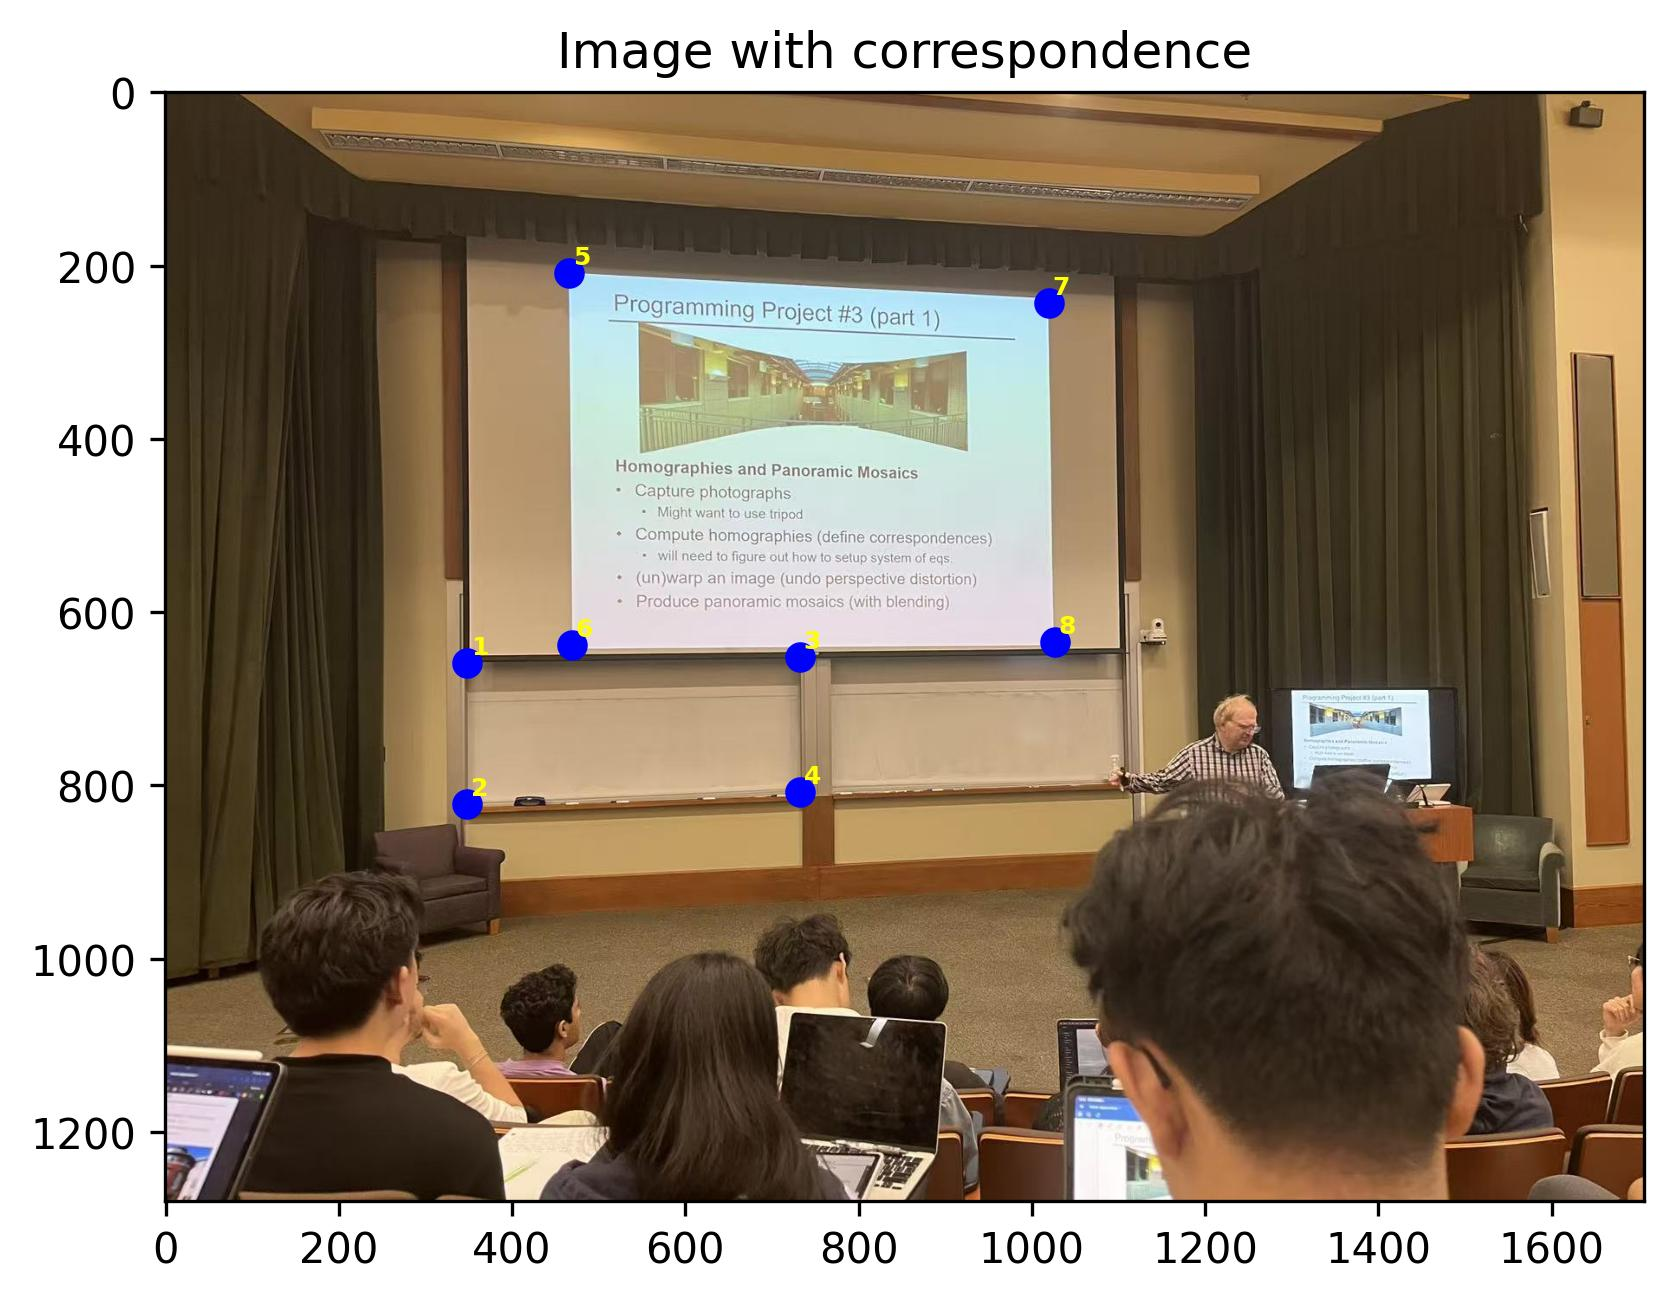
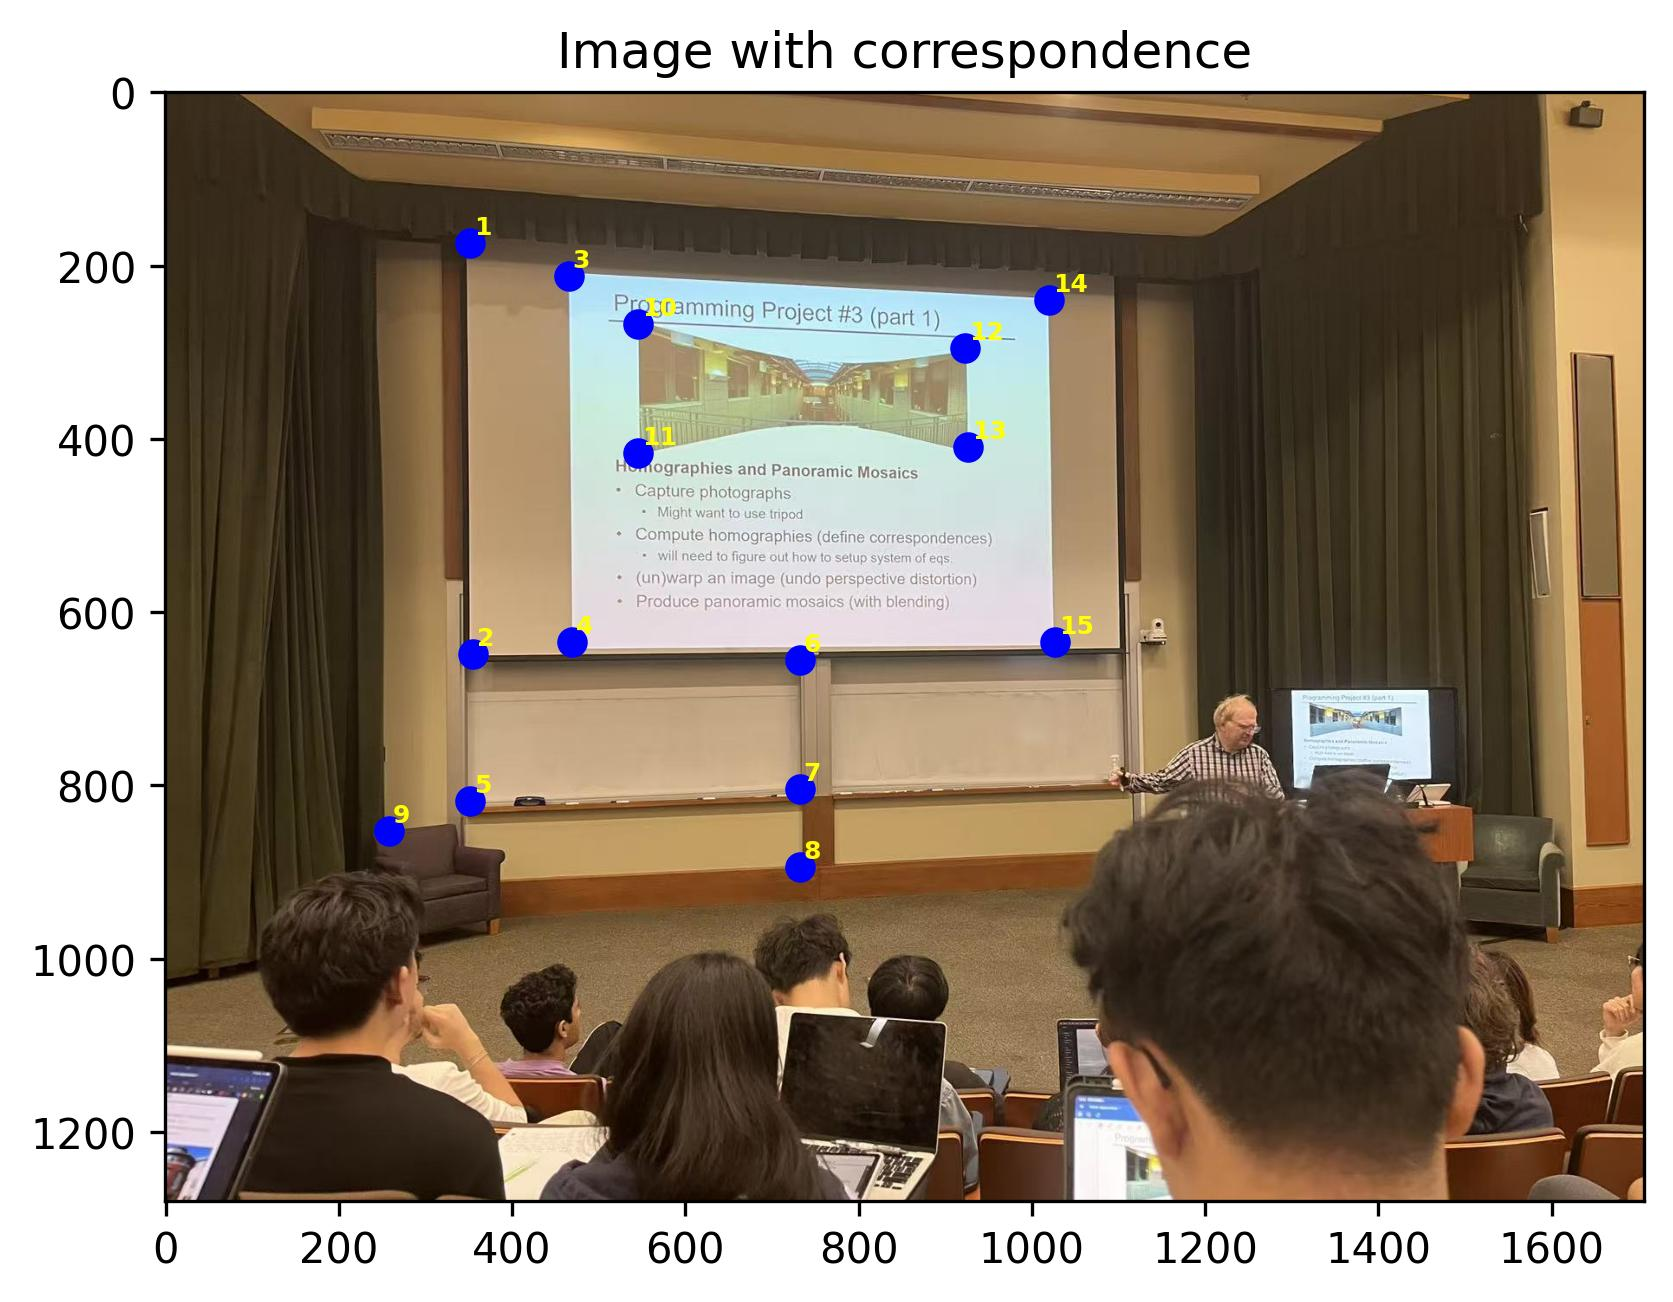
finished proj3b

diff --git a/3/index.html b/3/index.html
@@ -422,33 +422,33 @@
 
         <div class="selfie-row">
             <div class="selfie-item">
-                <img src="part_a4/warpped_lec_1.png" alt="warped_lec_1" style="width: 750px; height: 280px; object-fit: cover;">
+                <img src="part_a4/warpped_lec_1.jpg" alt="warped_lec_1" style="width: 750px; height: 280px; object-fit: cover;">
                 <div class="selfie-caption">Warped Lecture (left)</div>
             </div>
             <div class="selfie-item">
-                <img src="part_a4/mask_lec_1.png" alt="mask_lec_1" style="width: 750px; height: 280px; object-fit: cover;">
+                <img src="part_a4/mask_1.jpg" alt="mask_lec_1" style="width: 750px; height: 280px; object-fit: cover;">
                 <div class="selfie-caption">Mask for Lecture (left)</div>
             </div>
         </div>
 
         <div class="selfie-row">
             <div class="selfie-item">
-                <img src="part_a4/warpped_lec_2.png" alt="warped_lec_2" style="width: 750px; height: 280px; object-fit: cover;">
+                <img src="part_a4/warpped_lec_2.jpg" alt="warped_lec_2" style="width: 750px; height: 280px; object-fit: cover;">
                 <div class="selfie-caption">Warped Lecture (middle)</div>
             </div>
             <div class="selfie-item">
-                <img src="part_a4/mask_lec_2.png" alt="mask_lec_2" style="width: 750px; height: 280px; object-fit: cover;">
+                <img src="part_a4/mask_2.jpg" alt="mask_lec_2" style="width: 750px; height: 280px; object-fit: cover;">
                 <div class="selfie-caption">Mask for Lecture (middle)</div>
             </div>
         </div>
 
         <div class="selfie-row">
             <div class="selfie-item">
-                <img src="part_a4/warpped_lec_3.png" alt="warped_lec_3" style="width: 750px; height: 280px; object-fit: cover;">
+                <img src="part_a4/warpped_lec_3.jpg" alt="warped_lec_3" style="width: 750px; height: 280px; object-fit: cover;">
                 <div class="selfie-caption">Warped Lecture (right)</div>
             </div>
             <div class="selfie-item">
-                <img src="part_a4/mask_lec_3.png" alt="mask_lec_3" style="width: 750px; height: 280px; object-fit: cover;">
+                <img src="part_a4/mask_3.jpg" alt="mask_lec_3" style="width: 750px; height: 280px; object-fit: cover;">
                 <div class="selfie-caption">Mask for Lecture (right)</div>
             </div>
         </div>
@@ -503,6 +503,111 @@
                 <div class="selfie-caption">Inside Sky Lab</div>
             </div>
         </div>
+    </div>
+
+    <div class="part part2">
+        <h2>Part B.1: Harris Corner Detection</h2>
+        <p style="text-align: justify;">In this section, I use the Harris corner detection algorithm to detect the corners of the images. However, naively choosing the strongest corners will lead to a uneven distribution of the features. Therefore, I applied Adaptive Non-Maximal Suppression (ANMS) to choose the corners. The following images are the results of the Harris corner detection and the Adaptive Non-Maximal Suppression.</p>
+        <p style="text-align: justify;">ANMS is implemented by the following steps:</p>
+        <ol>
+            <li>Detect the corners of the image using the Harris corner detection algorithm and sort the corners by the Harris response score</li>
+            <li>Maintain a list of already selected corners, initialized as empty</li>
+            <li>for the i-th corner, calculate the minimum distance to the already selected corners with a response score threshold of 0.9</li>
+            <li>Sort the corners by the minimum distance and select the top k corners</li>
+        </ol>
+        <div class="selfie-row">
+            <div class="selfie-item">
+                <img src="part_b1/lecture_1_harris_corners.png" alt="lecture_1_harris_corners" style="width: 350px; height: 300px; object-fit: cover;">
+                <div class="selfie-caption">Lecture 1 with all corners detected by Harris corner detection</div>
+            </div>
+            <div class="selfie-item">
+                <img src="part_b1/lecture_1_strongest_500_harris_corners.png" alt="lecture_1_strongest_500_harris_corners" style="width: 350px; height: 300px; object-fit: cover;">
+                <div class="selfie-caption">Lecture 1 with 500 strongest corners</div>
+            </div>
+            <div class="selfie-item">
+                <img src="part_b1/lecture_1_ANMS_500_harris_corners.png" alt="lecture_1_ANMS_500_harris_corners" style="width: 350px; height: 300px; object-fit: cover;">
+                <div class="selfie-caption">Lecture 1 with 500 corners selected by ANMS</div>
+            </div>
+        </div>
+    </div>
+
+    <div class="part part2">
+        <h2>Part B.2: Feature Descriptor Extraction</h2>
+        <p style="text-align: justify;">This part of the project implements the feature descriptor extraction. The feature descriptor is a 8 by 8 square patch, downsampled from a 40 by 40 patch on the original scale. All the descriptors here are axis-aligned since no rotation is involved in taking the pictures. The following images are some examples of the feature descriptors from the left lecture image.</p>
+        <div class="selfie-row">
+            <div class="selfie-item">
+                <img src="part_b2/lecture_1_descriptor_patch_0.png" alt="lecture_1_descriptor_patch_0" style="width: 350px; height: 300px; object-fit: cover;">
+                <div class="selfie-caption">Lecture Descriptor Patch Example 1</div>
+            </div>
+            <div class="selfie-item">
+                <img src="part_b2/lecture_1_descriptor_patch_1.png" alt="lecture_1_descriptor_patch_1" style="width: 350px; height: 300px; object-fit: cover;">
+                <div class="selfie-caption">Lecture Descriptor Patch Example 2</div>
+            </div>
+            <div class="selfie-item">
+                <img src="part_b2/lecture_1_descriptor_patch_2.png" alt="lecture_1_descriptor_patch_2" style="width: 350px; height: 300px; object-fit: cover;">
+                <div class="selfie-caption">Lecture Descriptor Patch Example 3</div>
+            </div>
+        </div>
+    </div>
+
+    <div class="part part2">
+        <h2>Part B.3: Feature Matching</h2>
+        <p style="text-align: justify;">This part of the project implements the feature matching process. The feature matching is done by iterating through all the feature descriptors; for each descriptor, track the ratio between the errors of the best and the second best match. If the ratio is less than 0.7, then we consider it as a good match.</p>
+        <div class="selfie-row">
+            <div class="selfie-item">
+                <img src="part_b3/lecture_1_2_matches.png" alt="lecture_1_2_matches" style="width: 900px !important; max-width: none !important; height: auto;">
+                <div class="selfie-caption">Lecture Matches</div>
+            </div>
+        </div>
+    </div>
+
+    <div class="part part2">
+        <h2>Part B.4: RANSAC for Robust Homography</h2>
+        <p style="text-align: justify;">This part of the project implements the RANSAC algorithm to robustly estimate the homography matrix. The RANSAC algorithm is implemented by the following steps:</p>
+        <ol>
+            <li>Randomly sample 4 points from the matches</li>
+            <li>Estimate the homography matrix using the 4 points</li>
+            <li>Count the number of inliers</li>
+            <li>Repeat the process for a certain number of iterations</li>
+            <li>With the most inliers, estimate the homography matrix with all the inliers</li>
+            <li>Return the homography matrix</li>
+        </ol>
+        <p style="text-align: justify;">The following images are some examples of the auto-stitched images and a comparison between the stitching with manually picked correspondences.</p>
+        
+        <div class="selfie-row">
+            <div class="selfie-item">
+                <img src="part_a4/during_lecture.jpg" alt="" style="width: 800px; height: 280px; object-fit: cover;">
+                <div class="selfie-caption">During Lecture (Stitched Manually)</div>
+            </div>
+            <div class="selfie-item">
+                <img src="part_b4/during_lecture_auto.jpg" alt="" style="width: 800px; height: 280px; object-fit: cover;">
+                <div class="selfie-caption">During Lecture (Stitched with RANSAC)</div>
+            </div>
+        </div>
+
+        <div class="selfie-row">
+            <div class="selfie-item">
+                <img src="part_a4/outside_soda.jpg" alt="" style="width: 800px; height: 280px; object-fit: cover;">
+                <div class="selfie-caption">Outside Soda (Stitched Manually)</div>
+            </div>
+            <div class="selfie-item">
+                <img src="part_b4/outside_soda_auto.jpg" alt="" style="width: 800px; height: 280px; object-fit: cover;">
+                <div class="selfie-caption">Outside Soda (Stitched with RANSAC)</div>
+            </div>
+        </div>
+
+        <div class="selfie-row">
+            <div class="selfie-item">
+                <img src="part_a4/inside_sky.jpg" alt="" style="width: 800px; height: 280px; object-fit: cover;">
+                <div class="selfie-caption">Inside Sky Lab (Stitched Manually)</div>
+            </div>
+            <div class="selfie-item">
+                <img src="part_b4/inside_sky_auto.jpg" alt="" style="width: 800px; height: 280px; object-fit: cover;">
+                <div class="selfie-caption">Inside Sky Lab (Stitched with RANSAC)</div>
+            </div>
+        </div>
+
+
     </div>
 
 </body>
